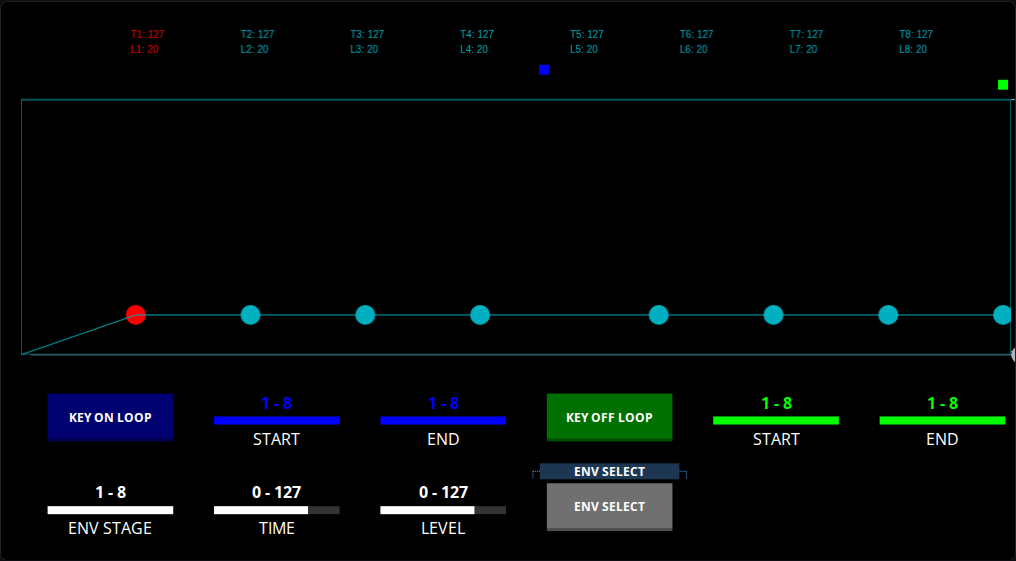
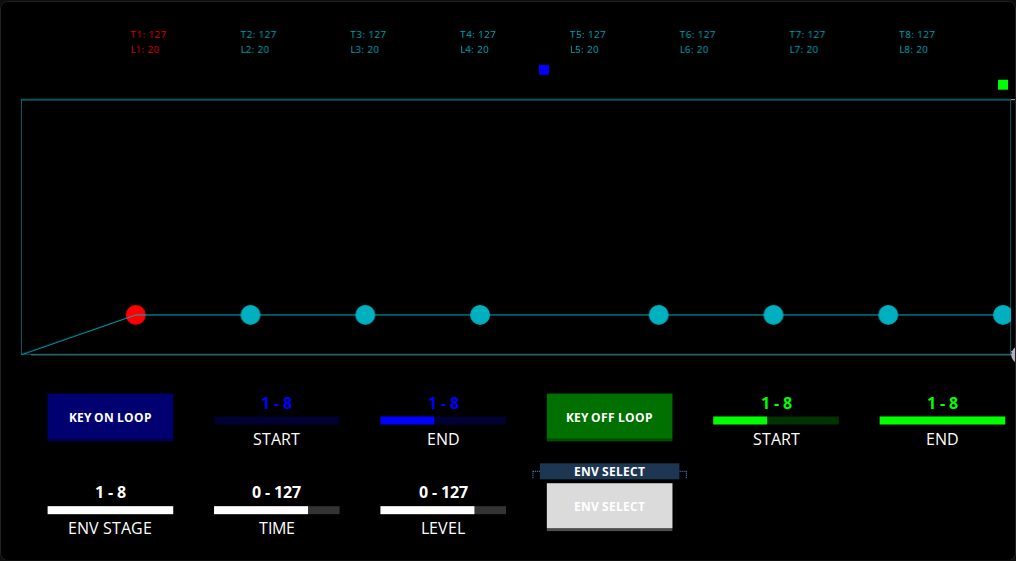
emulator: normalise toggle pads + mockControl mutators
- Toggle pads fire 0/1 in the callback (matches MK2 firmware),
  regardless of the message's onValue/offValue. Widgets commonly test
  `v == 1` and break on raw MIDI values like 127.
- mockControl passed to per-value callbacks now has setName, setColor,
  setVisible, setLabel, repaint stubs — xt-envelopes' selectEnvelope
  calls `ctl:setName(...)` which was erroring as "call a nil value".

diff --git a/docs/emulator/emulator.js b/docs/emulator/emulator.js
@@ -634,7 +634,16 @@ function setupEnv(L, stage) {
 function fireParameterChange(stage, tile, midiValue) {
   const L = stage.L;
   if (!L) return;
-  const mockControl = { getId: () => tile.ref, getName: () => tile.name || "", getColor: () => 0xFFFFFF };
+  const mockControl = {
+    getId: () => tile.ref,
+    getName: () => tile.name || "",
+    getColor: () => 0xFFFFFF,
+    setName: (n) => { tile.name = n; },
+    setColor: () => {},
+    setVisible: () => {},
+    setLabel: () => {},
+    repaint: () => stage.paintAll(),
+  };
   const mockMessage = {
     getValue: () => midiValue,
     getParameterNumber: () => tile.msgParam ?? tile.ref,
@@ -782,11 +791,10 @@ function createNativeTileOverlays(stage) {
         el.addEventListener("pointerup", release);
         el.addEventListener("pointerleave", release);
       } else {
-        // toggle: flip between message's on/off values (not hardcoded 0/127 —
-        // widgets may expect 1/0 or other values).
-        const onV = tile.msgOn ?? 127, offV = tile.msgOff ?? 0;
+        // Toggle: normalise to 1/0 in the callback value — matches MK2
+        // firmware behaviour. Widgets commonly test `v == 1`.
         el.addEventListener("click", () => {
-          const v = stage.tileValues[tile.ref] === onV ? offV : onV;
+          const v = stage.tileValues[tile.ref] ? 0 : 1;
           stage.tileValues[tile.ref] = v;
           updateTileVisual(tile, v);
           fireParameterChange(stage, tile, v);
